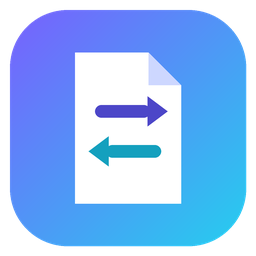
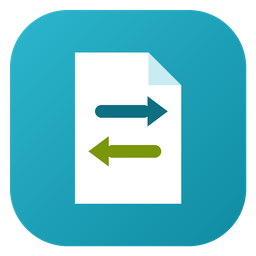
Paleta do PDA no Windows e no Android, com ícone novo

diff --git a/src/EnvyConverter/Ui/Theme.xaml b/src/EnvyConverter/Ui/Theme.xaml
@@ -2,20 +2,21 @@
                     xmlns:x="http://schemas.microsoft.com/winfx/2006/xaml">
 
     <!-- Cores padrão. Sobrescritas em tempo de execução pelo tema.json ao lado do executável. -->
-    <SolidColorBrush x:Key="BgBrush" Color="#0E1120" />
-    <SolidColorBrush x:Key="SurfaceBrush" Color="#161A2E" />
-    <SolidColorBrush x:Key="SurfaceHighBrush" Color="#1F2440" />
-    <SolidColorBrush x:Key="LineBrush" Color="#2C3256" />
-    <SolidColorBrush x:Key="TextBrush" Color="#EEF0FF" />
-    <SolidColorBrush x:Key="MutedBrush" Color="#9AA1C9" />
-    <SolidColorBrush x:Key="AccentBrush" Color="#7C5CFF" />
-    <SolidColorBrush x:Key="Accent2Brush" Color="#22D3EE" />
-    <SolidColorBrush x:Key="SuccessBrush" Color="#34D399" />
-    <SolidColorBrush x:Key="ErrorBrush" Color="#F87171" />
-    <SolidColorBrush x:Key="WarnBrush" Color="#FBBF24" />
+    <SolidColorBrush x:Key="BgBrush" Color="#0B0F14" />
+    <SolidColorBrush x:Key="SurfaceBrush" Color="#181F27" />
+    <SolidColorBrush x:Key="SurfaceHighBrush" Color="#212A34" />
+    <SolidColorBrush x:Key="LineBrush" Color="#2C3740" />
+    <SolidColorBrush x:Key="TextBrush" Color="#E6EDF3" />
+    <SolidColorBrush x:Key="MutedBrush" Color="#8B98A5" />
+    <SolidColorBrush x:Key="AccentBrush" Color="#2DB8CF" />
+    <SolidColorBrush x:Key="Accent2Brush" Color="#0E8AA1" />
+    <SolidColorBrush x:Key="LimeBrush" Color="#B0CB1C" />
+    <SolidColorBrush x:Key="SuccessBrush" Color="#4EC9B0" />
+    <SolidColorBrush x:Key="ErrorBrush" Color="#F14C4C" />
+    <SolidColorBrush x:Key="WarnBrush" Color="#E8A33D" />
     <LinearGradientBrush x:Key="AccentGradient" StartPoint="0,0" EndPoint="1,1">
-        <GradientStop Color="#7C5CFF" Offset="0" />
-        <GradientStop Color="#22D3EE" Offset="1" />
+        <GradientStop Color="#2DB8CF" Offset="0" />
+        <GradientStop Color="#0E8AA1" Offset="1" />
     </LinearGradientBrush>
 
     <FontFamily x:Key="UiFont">Segoe UI Variable Display, Segoe UI</FontFamily>

diff --git a/src/EnvyConverter.Mobile/App.xaml b/src/EnvyConverter.Mobile/App.xaml
@@ -4,20 +4,21 @@
              x:Class="EnvyConverter.Mobile.App">
     <Application.Resources>
         <ResourceDictionary>
-            <Color x:Key="Bg">#0E1120</Color>
-            <Color x:Key="Surface">#161A2E</Color>
-            <Color x:Key="SurfaceHigh">#1F2440</Color>
-            <Color x:Key="Line">#2C3256</Color>
-            <Color x:Key="Text">#EEF0FF</Color>
-            <Color x:Key="Muted">#9AA1C9</Color>
-            <Color x:Key="Accent">#7C5CFF</Color>
-            <Color x:Key="Accent2">#22D3EE</Color>
-            <Color x:Key="Success">#34D399</Color>
-            <Color x:Key="Error">#F87171</Color>
+            <Color x:Key="Bg">#0B0F14</Color>
+            <Color x:Key="Surface">#181F27</Color>
+            <Color x:Key="SurfaceHigh">#212A34</Color>
+            <Color x:Key="Line">#2C3740</Color>
+            <Color x:Key="Text">#E6EDF3</Color>
+            <Color x:Key="Muted">#8B98A5</Color>
+            <Color x:Key="Accent">#2DB8CF</Color>
+            <Color x:Key="Accent2">#0E8AA1</Color>
+            <Color x:Key="Lime">#B0CB1C</Color>
+            <Color x:Key="Success">#4EC9B0</Color>
+            <Color x:Key="Error">#F14C4C</Color>
 
             <LinearGradientBrush x:Key="AccentGradient" StartPoint="0,0" EndPoint="1,1">
-                <GradientStop Color="#7C5CFF" Offset="0" />
-                <GradientStop Color="#22D3EE" Offset="1" />
+                <GradientStop Color="#2DB8CF" Offset="0" />
+                <GradientStop Color="#0E8AA1" Offset="1" />
             </LinearGradientBrush>
 
             <Style TargetType="Label">

diff --git a/src/EnvyConverter.Mobile/FileItem.cs b/src/EnvyConverter.Mobile/FileItem.cs
@@ -61,10 +61,10 @@ public sealed class FileItem : INotifyPropertyChanged
 
     public Color StatusColor => Status switch
     {
-        FileStatus.Working => Color.FromArgb("#22D3EE"),
-        FileStatus.Done => Color.FromArgb("#34D399"),
-        FileStatus.Failed => Color.FromArgb("#F87171"),
-        _ => Color.FromArgb("#9AA1C9"),
+        FileStatus.Working => Color.FromArgb("#0E8AA1"),
+        FileStatus.Done => Color.FromArgb("#4EC9B0"),
+        FileStatus.Failed => Color.FromArgb("#F14C4C"),
+        _ => Color.FromArgb("#8B98A5"),
     };
 
     public event PropertyChangedEventHandler? PropertyChanged;

diff --git a/src/EnvyConverter/Ui/Models.cs b/src/EnvyConverter/Ui/Models.cs
@@ -62,7 +62,7 @@ public sealed class FileItem : INotifyPropertyChanged
 
     public Brush StatusBrush => (Brush)Application.Current.Resources[Status switch
     {
-        FileStatus.Working => "Accent2Brush",
+        FileStatus.Working => "AccentBrush",
         FileStatus.Done => "SuccessBrush",
         FileStatus.Failed => "ErrorBrush",
         _ => "MutedBrush",

diff --git a/README.md b/README.md
@@ -84,17 +84,17 @@ As cores ficam no arquivo **`tema.json`**, ao lado do `.exe`. Abra no Bloco de N
 
 ```json
 {
-  "Fundo": "#0E1120",
-  "Superficie": "#161A2E",
-  "SuperficieAlta": "#1F2440",
-  "Borda": "#2C3256",
-  "Texto": "#EEF0FF",
-  "TextoSuave": "#9AA1C9",
-  "Destaque": "#7C5CFF",
-  "Destaque2": "#22D3EE",
-  "Sucesso": "#34D399",
-  "Erro": "#F87171",
-  "Aviso": "#FBBF24",
+  "Fundo": "#0B0F14",
+  "Superficie": "#181F27",
+  "SuperficieAlta": "#212A34",
+  "Borda": "#2C3740",
+  "Texto": "#E6EDF3",
+  "TextoSuave": "#8B98A5",
+  "Destaque": "#2DB8CF",
+  "Destaque2": "#0E8AA1",
+  "Sucesso": "#4EC9B0",
+  "Erro": "#F14C4C",
+  "Aviso": "#E8A33D",
   "NomeApp": "Envy Converter"
 }
 ```
